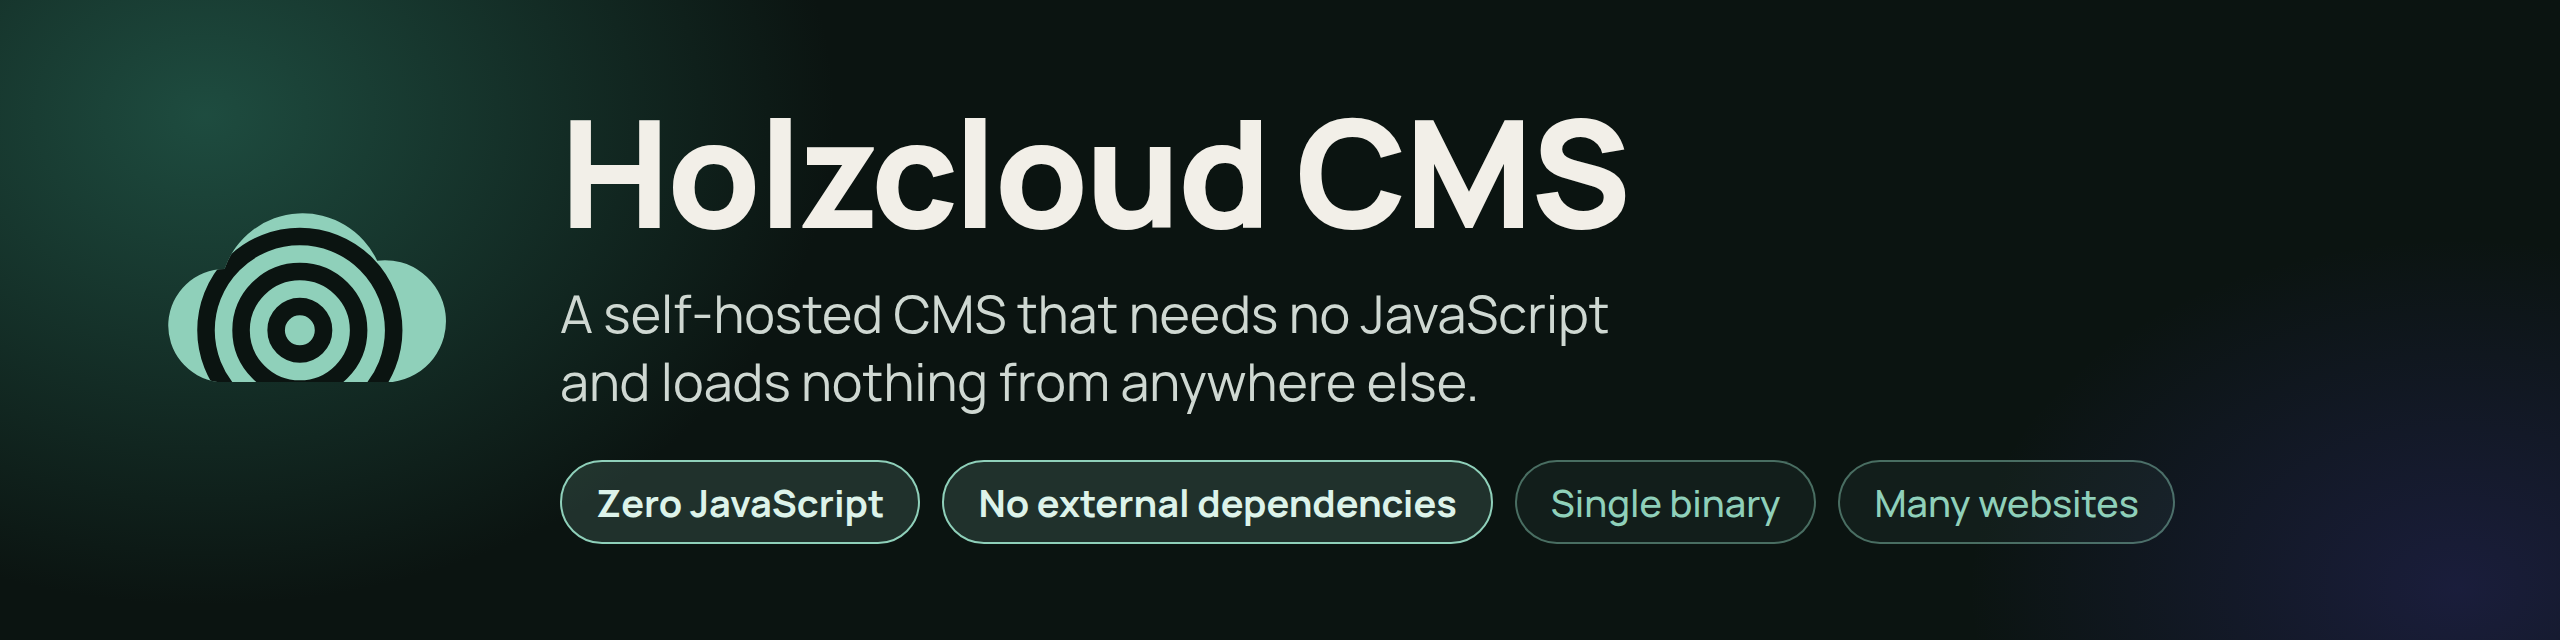
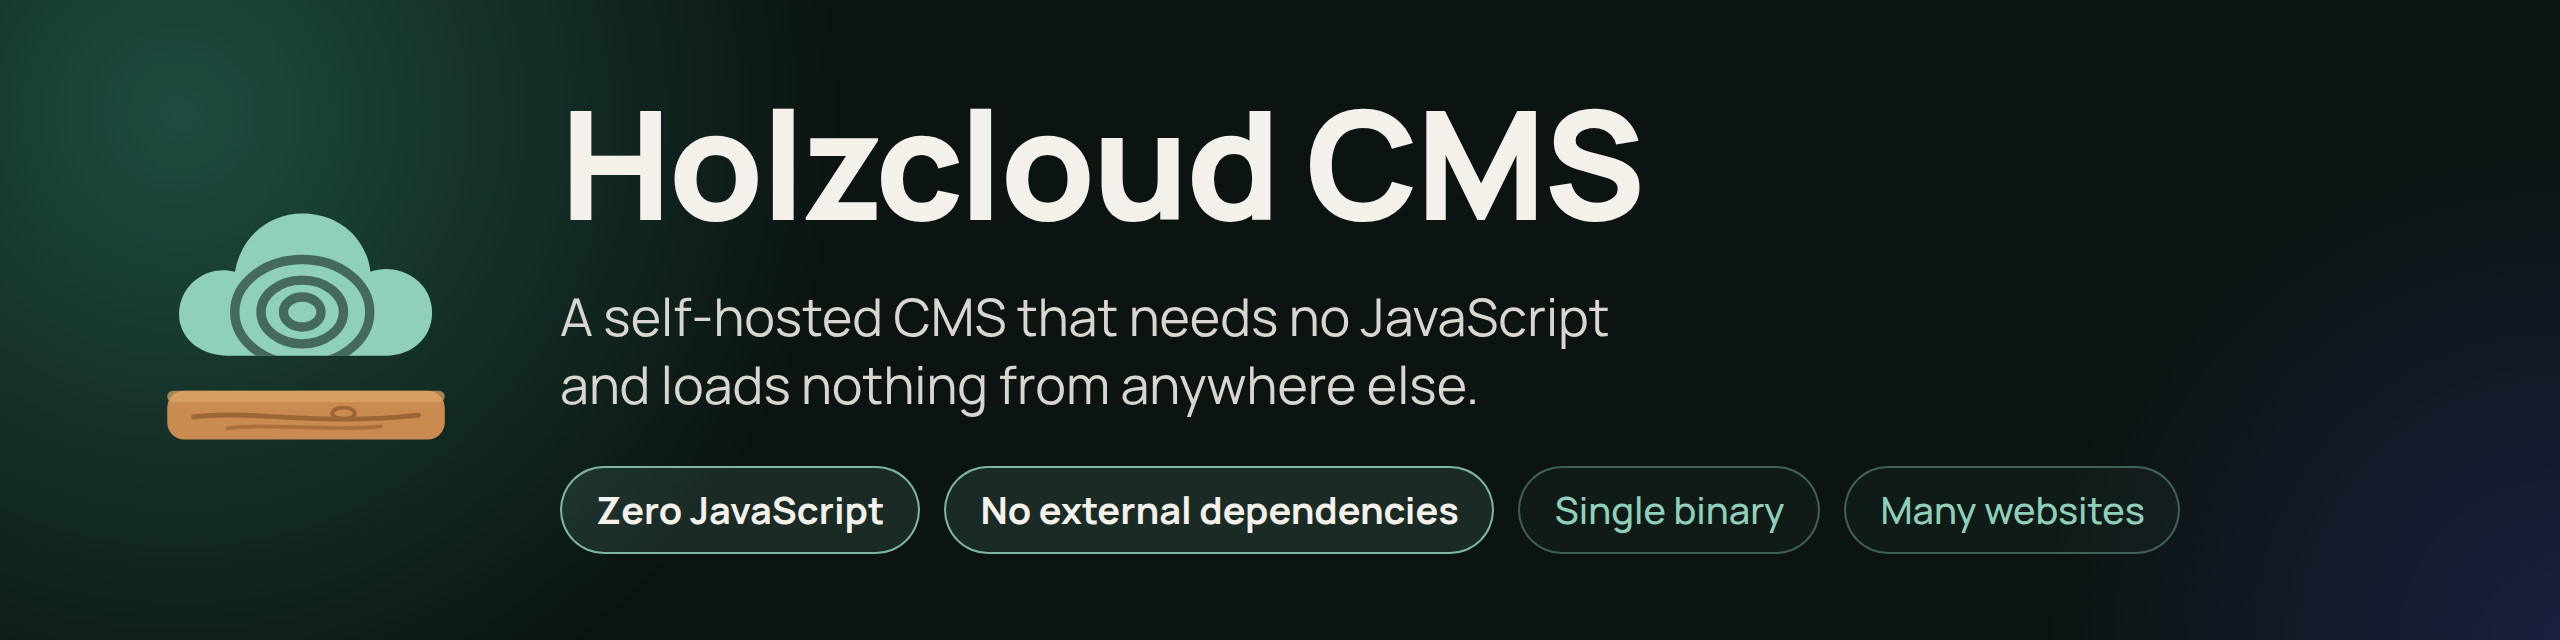
0.0.13: Holz plus Element – neue Zeichen für CMS und Vorlage holzcloud
Das CMS trägt die Wolke in Mint mit Jahresringen auf dem Brett: im
Favicon des Admins, in docs/brand/ (Zeichen, Indigo-Fassung, Kachel)
und in Banner und Social-Karte, neu aus HTML mit eingebetteter Manrope
gerendert, Anordnung und Text unverändert.

Die Vorlage holzcloud zeigt den Wolkenbaum auf dem Brett in der Leiste,
im Favicon und gross auf der Startseite; das Brett ersetzt dort die
Jahresringe. Der Baum zeichnet weiter in currentColor, das Brett behält
seine Holzfarben. Die viewBox ist 20 24 160 152 statt der 20 40 160 136
der Vorlage: dort wird die Krone oben abgeschnitten. Hell ist der Baum
waldgrün statt holzbraun, sonst verläuft er mit dem Brett. Die Seite
holzkube-manager steht in Glut (#EF7A4D, hell #C2502A) statt Messing.

Claude-Session: https://claude.ai/code/session_01WLB1zYZCdicocRWDhHTZuA

diff --git a/cmd/holzcloud/templates/public/holzcloud/style.css b/cmd/holzcloud/templates/public/holzcloud/style.css
@@ -960,7 +960,7 @@ html { scroll-padding-top: var(--hc-space-9); }
    ihr das wieder weg. */
 .site-mark { display: inline-flex; align-items: center; flex: none; }
 .site-mark-glyph {
-  width: 32px; height: 27px; flex: none;
+  width: 32px; height: 30px; flex: none;
   color: var(--hc-brass);
   overflow: visible;
   /* Der Abstand hängt an der Glyphe, nicht als gap am Behälter:
@@ -1469,8 +1469,9 @@ main:focus { outline: none; }
  *
  * Jede Programmseite steht in den Farben, die das Programm auf GitHub trägt:
  * holzcloud-cms in Mint auf dunklem Grün, hauscloud in Blau auf Nachtblau,
- * holzice in Eisblau auf dunklem Marineblau; holzkube-manager trägt schon das Messing dieser Vorlage und bleibt, wie er
- * ist. Die Farbe hängt am Adressnamen der Seite, den das Layout als data-seite
+ * holzice in Eisblau auf dunklem Marineblau, holzkube-manager in Glut auf
+ * fast schwarzem Rot. Das Messing dieser Vorlage gehört seither holzcloud
+ * allein; holzkube-manager teilt es nicht mehr. Die Farbe hängt am Adressnamen der Seite, den das Layout als data-seite
  * auf <body> schreibt — er ist in allen Sprachen derselbe.
  *
  * Alles, was :root aus Messing und Grund ableitet, wird hier noch einmal
@@ -1480,7 +1481,7 @@ main:focus { outline: none; }
 body[data-seite="holzcloud-cms"] { --hc-app: #8fd0ba; --hc-app-grund: #0b1411; }
 body[data-seite="hauscloud"]     { --hc-app: #8298ff; --hc-app-grund: #0c0e1a; }
 body[data-seite="holzice"]       { --hc-app: #5ec8f2; --hc-app-grund: #0a1426; }
-body[data-seite="holzkube-manager"] { --hc-app: #F0AE5F; --hc-app-grund: #0A0705; }
+body[data-seite="holzkube-manager"] { --hc-app: #EF7A4D; --hc-app-grund: #140806; }
 body:is([data-seite="holzcloud-cms"], [data-seite="hauscloud"], [data-seite="holzice"], [data-seite="holzkube-manager"]) {
   --hc-ground:          var(--hc-app-grund);
   --paper:              var(--hc-app-grund);
@@ -1805,7 +1806,6 @@ body:is([data-seite="holzcloud-cms"], [data-seite="hauscloud"], [data-seite="hol
 .site-hero .hc-lede    { margin-block-start: var(--hc-space-5); }
 .site-art { color: var(--hc-brass); }
 .site-art svg { display: block; width: 100%; height: auto; }
-.site-art__rings { opacity: .35; }
 .site-art__grain { stroke: var(--hc-ground); opacity: .5; }
 .site-actions {
   display: flex; flex-wrap: wrap; gap: var(--hc-space-3);
@@ -2320,7 +2320,10 @@ body:is([data-seite="holzcloud-cms"], [data-seite="hauscloud"], [data-seite="hol
     --hc-cubes-opacity: .16;
   }
   .hc-cubes { background-color: var(--hc-wood); }
-  .site-mark-glyph, .site-art { color: var(--hc-wood); }
+  /* Der Wolkenbaum steht hell in Waldgrün, nicht in Holzbraun: unter ihm
+     liegt jetzt das Brett in seinen eigenen Holzfarben, und ein brauner Baum
+     auf braunem Brett verliefe zu einer Fläche. */
+  .site-mark-glyph, .site-art { color: var(--hc-brass); }
   /* Die dünnste Schnitt der Manrope trägt auf Papier nicht: was dunkel
      als feine Linie leuchtet, wird hell grau und blass. */
   :root { --hc-weight-thin: 350; }
@@ -2335,7 +2338,7 @@ body:is([data-seite="holzcloud-cms"], [data-seite="hauscloud"], [data-seite="hol
   body[data-seite="holzcloud-cms"]    { --hc-app: #2E7D66; --hc-app-grund: #EEF5F1; }
   body[data-seite="hauscloud"]        { --hc-app: #3A51D4; --hc-app-grund: #EEF0FA; }
   body[data-seite="holzice"]          { --hc-app: #1C78AE; --hc-app-grund: #EAF3F9; }
-  body[data-seite="holzkube-manager"] { --hc-app: #A8641F; --hc-app-grund: #F7EFE3; }
+  body[data-seite="holzkube-manager"] { --hc-app: #C2502A; --hc-app-grund: #FBEFE9; }
   body:is([data-seite="holzcloud-cms"], [data-seite="hauscloud"], [data-seite="holzice"], [data-seite="holzkube-manager"]) { --hc-wood: var(--hc-app); }
 
   /* Wer weniger Transparenz will, bekommt deckende Flächen, wie dunkel. */

diff --git a/cmd/holzcloud/templates/public/holzcloud/layout.html b/cmd/holzcloud/templates/public/holzcloud/layout.html
@@ -46,7 +46,7 @@
        JetBrains Mono liegen als woff2 in fonts/ und kommen über /t/fonts/
        vom eigenen Server. Es verlässt nichts diesen Ursprung. -->
   <link rel="stylesheet" href="/assets/bausteine.css">
-  <link rel="stylesheet" href="/t/style.css?v=db383e3ddc92">
+  <link rel="stylesheet" href="/t/style.css?v=817ffa11517c">
   {{if .Site.Design}}
   <!-- The website's own tokens, after the stylesheet so they win. Every value
        has been validated to a shape the CSS can read only one way. -->
@@ -73,10 +73,11 @@
       <a class="hc-mark site-mark" href="/">
         {{if .Site.LogoURL}}<img class="site-logo" src="{{.Site.LogoURL}}" alt="">
         {{else}}
-        <!-- Der Wolkenbaum der Marke, inline und nicht als <img>: so zeichnet er
-             in currentColor und folgt der Farbe der Leiste. Ein <img> könnte das
-             nicht — deshalb trägt allein favicon.svg eine feste Farbe. -->
-        <svg class="site-mark-glyph" viewBox="10 30 180 152" fill="none" aria-hidden="true" focusable="false"><path d="M52 140 C30 140 18 124 22 108 C26 92 42 84 56 88 C60 64 80 50 102 52 C124 54 138 70 140 88 C156 82 176 92 178 110 C180 128 166 140 150 140 Z" transform="translate(0 -10)" fill="currentColor"/><path d="M100 128 L100 176" stroke="currentColor" stroke-width="12" stroke-linecap="round"/><path d="M100 150 L84 134 M100 142 L114 130" stroke="currentColor" stroke-width="7" stroke-linecap="round"/><g class="site-mark-grain" stroke-width="3.5" stroke-linecap="round"><path d="M60 112 C80 106 120 106 150 112"/><path d="M78 92 C92 87 112 87 126 92"/></g></svg>{{end}}<b>{{.Site.Name}}</b></a>
+        <!-- Der Wolkenbaum der Marke auf seinem Brett, inline und nicht als <img>:
+             so zeichnet der Baum in currentColor und folgt der Farbe der Leiste.
+             Das Brett behält seine Holzfarben, es ist bei allen Projekten der
+             Familie dasselbe. Ein <img> könnte das nicht. -->
+        <svg class="site-mark-glyph" viewBox="20 24 160 152" fill="none" aria-hidden="true" focusable="false"><g transform="translate(100 0) scale(.82) translate(-100 0)"><path d="M52 140 C30 140 18 124 22 108 C26 92 42 84 56 88 C60 64 80 50 102 52 C124 54 138 70 140 88 C156 82 176 92 178 110 C180 128 166 140 150 140 Z" transform="translate(0 -18)" fill="currentColor"/><g class="site-mark-grain" stroke-width="3" stroke-linecap="round"><path d="M60 94 C80 88 120 88 150 94"/><path d="M78 74 C92 69 112 69 126 74"/></g></g><path d="M100 104 L100 148" stroke="currentColor" stroke-width="11" stroke-linecap="round"/><path d="M100 128 L86 114 M100 120 L113 109" stroke="currentColor" stroke-width="6.5" stroke-linecap="round"/><rect x="26" y="146" width="148" height="26" rx="9" fill="#C98B4F"/><rect x="26" y="146" width="148" height="6" rx="3" fill="#E0A869" opacity=".7"/><path d="M40 160 C70 156 108 165 160 159" stroke="#9B6534" stroke-width="2.6" fill="none" stroke-linecap="round"/><path d="M58 166 C84 163 118 168 140 165" stroke="#9B6534" stroke-width="2" fill="none" stroke-linecap="round" opacity=".7"/><ellipse cx="120" cy="158" rx="6" ry="3" stroke="#9B6534" stroke-width="2" fill="none"/></svg>{{end}}<b>{{.Site.Name}}</b></a>
 
       <nav class="site-menu" aria-label="{{t "Main navigation"}}">{{menuFor .Menus "main" .Page.Slug}}</nav>
 

diff --git a/cmd/holzcloud/templates/public/holzcloud/home.html b/cmd/holzcloud/templates/public/holzcloud/home.html
@@ -32,16 +32,13 @@
       </div>
     </div>
 
-    {{/* Der Wolkenbaum der Marke, gross. Rein schmückend, deshalb
-         aria-hidden; die Farbe kommt als currentColor aus .site-art. Unter
-         dem Stamm liegen Jahresringe, flach wie eine Baumscheibe im Gras. */}}
+    {{/* Der Wolkenbaum der Marke, gross, auf seinem Brett. Rein schmückend,
+         deshalb aria-hidden; der Baum kommt als currentColor aus .site-art,
+         das Brett behält seine Holzfarben. Die Jahresringe, die früher unter
+         dem Stamm lagen, sind gegangen: das Brett trägt den Baum jetzt. */}}
     <div class="site-art" aria-hidden="true">
-      <svg viewBox="-10 20 220 190" fill="none" role="presentation" focusable="false">
-        <g class="site-art__rings" stroke="currentColor" stroke-width="1.2"><ellipse cx="100" cy="186" rx="30" ry="8.4"/><ellipse cx="100" cy="186" rx="48" ry="13.4"/><ellipse cx="100" cy="186" rx="66" ry="18.5"/><ellipse cx="100" cy="186" rx="84" ry="23.5"/><ellipse cx="100" cy="186" rx="102" ry="28.6"/></g>
-        <path d="M52 140 C30 140 18 124 22 108 C26 92 42 84 56 88 C60 64 80 50 102 52 C124 54 138 70 140 88 C156 82 176 92 178 110 C180 128 166 140 150 140 Z" transform="translate(0 -10)" fill="currentColor"/>
-        <path d="M100 128 L100 182" stroke="currentColor" stroke-width="12" stroke-linecap="round"/>
-        <path d="M100 152 L82 134 M100 142 L116 128" stroke="currentColor" stroke-width="7" stroke-linecap="round"/>
-        <g class="site-art__grain" stroke-width="3" stroke-linecap="round"><path d="M60 112 C80 106 120 106 150 112"/><path d="M78 92 C92 87 112 87 126 92"/><path d="M48 128 C70 124 96 124 118 128"/></g>
+      <svg viewBox="20 24 160 152" fill="none" role="presentation" focusable="false">
+        <g transform="translate(100 0) scale(.82) translate(-100 0)"><path d="M52 140 C30 140 18 124 22 108 C26 92 42 84 56 88 C60 64 80 50 102 52 C124 54 138 70 140 88 C156 82 176 92 178 110 C180 128 166 140 150 140 Z" transform="translate(0 -18)" fill="currentColor"/><g class="site-art__grain" stroke-width="3" stroke-linecap="round"><path d="M60 94 C80 88 120 88 150 94"/><path d="M78 74 C92 69 112 69 126 74"/></g></g><path d="M100 104 L100 148" stroke="currentColor" stroke-width="11" stroke-linecap="round"/><path d="M100 128 L86 114 M100 120 L113 109" stroke="currentColor" stroke-width="6.5" stroke-linecap="round"/><rect x="26" y="146" width="148" height="26" rx="9" fill="#C98B4F"/><rect x="26" y="146" width="148" height="6" rx="3" fill="#E0A869" opacity=".7"/><path d="M40 160 C70 156 108 165 160 159" stroke="#9B6534" stroke-width="2.6" fill="none" stroke-linecap="round"/><path d="M58 166 C84 163 118 168 140 165" stroke="#9B6534" stroke-width="2" fill="none" stroke-linecap="round" opacity=".7"/><ellipse cx="120" cy="158" rx="6" ry="3" stroke="#9B6534" stroke-width="2" fill="none"/>
       </svg>
     </div>
   </div>

diff --git a/docs/brand/README.md b/docs/brand/README.md
@@ -1,42 +1,43 @@
 # The mark
 
-**Ringwolke** — annual rings cut into a cloud. Both halves of the name in one
-figure: the wood and the cloud, drawn as the same thing rather than set beside
-each other.
+**Wood plus element.** A wooden plank carries each project's element: the
+holzcloud projects share the plank and differ in what stands on it. For this
+CMS it is a mint cloud with annual rings cut into it, the cloud and the wood
+of the name in one figure, standing on the plank that ties it to its siblings
+(the cloud-crowned tree of holzcloud itself, the cube of holzkube-manager).
 
 | File | Use |
 |---|---|
-| `holzcloud-mark.svg` | the standalone mark, forest green — README, project page, anywhere it stands on its own |
-| `holzcloud-mark-indigo.svg` | the same mark in the admin's accent colour |
-| `holzcloud-tile.svg` | the mark inside a rounded square, forest — app icons, avatars, social cards |
+| `holzcloud-mark.svg` | the standalone mark, mint cloud on the plank, for a dark ground: README, project page, anywhere it stands on its own |
+| `holzcloud-mark-indigo.svg` | the same mark with the cloud in the admin's accent colour and the rings in paper |
+| `holzcloud-tile.svg` | the mark inside a rounded square on ink: app icons, avatars |
 | `banner.png` | the banner at the top of the repository's README, 2560×640 |
 | `holzcloud-social.png` | the card GitHub shows when the repository is shared (Settings → Social preview), 2560×1280 |
 
-The admin's own tab icon is `cmd/holzcloud/assets/favicon.svg`, which is the tile
-in indigo. It carries **two** rings where the standalone mark carries three: a
-browser tab is 16 pixels wide, and the third ring at that size is not a ring but
-a smear. Same figure, one detail fewer — the ordinary way a mark is made to
-survive being small.
+The admin's own tab icon is `cmd/holzcloud/assets/favicon.svg`, which is the
+tile: the ink square keeps the mint and the wood readable on a light tab bar as
+well as on a dark one.
 
 ## Rules
 
-- **One accent plus paper.** The rings are cut out of the cloud, not drawn on top
-  of it, so the mark works in a single colour and reversed on a dark ground.
-- **Do not add a fourth ring.** The spacing is set so the smallest ring stays a
-  filled dot at 32 px; a fourth closes the gaps.
-- **Do not outline the cloud.** The silhouette is the clip path; a stroke around
-  it doubles the edge and thickens at small sizes.
+- **The plank is the same in every project.** Its colours are fixed:
+  `#C98B4F` for the board, `#E0A869` for the lit top edge, `#9B6534` for the
+  grain and the knot. Only the element above it changes colour.
+- **Three rings and no fourth.** The rings are drawn in the ground colour on top
+  of the cloud and clipped to it; a fourth closes the gaps at small sizes.
+- **Do not outline the cloud or the plank.** A stroke around either doubles the
+  edge and thickens at small sizes.
 - **Clear space** of half the mark's height on every side.
-- **The banner and the social card are the reversed mark on ink**, the name in
-  Manrope — the typeface the shipped themes carry — and a row of what the
-  program is. The same arrangement as the holzkube-manager's, in this
-  program's colours, so the two repositories read as one family. Both are
-  rendered from HTML with the theme's own `manrope-latin.woff2` embedded and
-  screenshotted at twice the size GitHub shows them; they are pictures in the
-  repository, never something the program loads.
+- **The banner and the social card are the mark on ink**, the name in Manrope,
+  the typeface the shipped themes carry, and a row of what the program is. The
+  same arrangement as the holzkube-manager's, in this program's colours, so the
+  repositories read as one family. Both are rendered from HTML with the
+  theme's own `manrope-latin.woff2` embedded and screenshotted at twice the
+  size GitHub shows them; they are pictures in the repository, never something
+  the program loads.
 
-Colours: forest `#1F4F42` on paper `#F7F4EE`, indigo `#4F3ED1` on `#F6F4FF`,
-and `#8FD0BA` on ink `#14201C` when reversed.
+Colours: mint `#8FD0BA` on ink `#0B1411`, indigo `#4F3ED1` with paper
+`#F6F4FF`, and the plank as above.
 
 An operator can replace the mark for their own installation under *Brand* in the
 admin — see [security](../security.md#the-brand-of-the-admin) for why an uploaded

diff --git a/CHANGELOG.md b/CHANGELOG.md
@@ -14,6 +14,19 @@ entries below 0.0.1 carry the numbers of the earlier count (1.4 to 2.9.1); those
 releases and their tags were deleted when the count started again, and the
 entries stay here because they are still the history of this code.
 
+## 0.0.13 — 2026-10-02
+
+**Holz plus Element: neue Zeichen für das CMS und die Vorlage „holzcloud“.**
+Die Projekte von holzcloud teilen sich jetzt ein Brett aus Holz, und darauf
+steht, was jedes Projekt ausmacht. Beim CMS ist es die Wolke in Mint mit
+Jahresringen; sie steht im Favicon des Admins, im Banner und in der Karte, die
+GitHub beim Teilen zeigt. In der Vorlage „holzcloud“ steht der Wolkenbaum auf
+dem Brett, in der Leiste, im Favicon und gross auf der Startseite, wo das Brett
+die Jahresringe darunter ersetzt. Im hellen Modus ist der Baum nun waldgrün
+statt holzbraun, damit er sich vom Brett abhebt. Die Seite über
+holzkube-manager trägt dessen neue Farbe Glut statt des Messings, dunkel wie
+hell. Nach dem Update ist nichts zu tun.
+
 ## 0.0.12 — 2026-10-02
 
 **Die Vorlage „holzcloud“ hat ein neues Zeichen und einen hellen Modus.**
